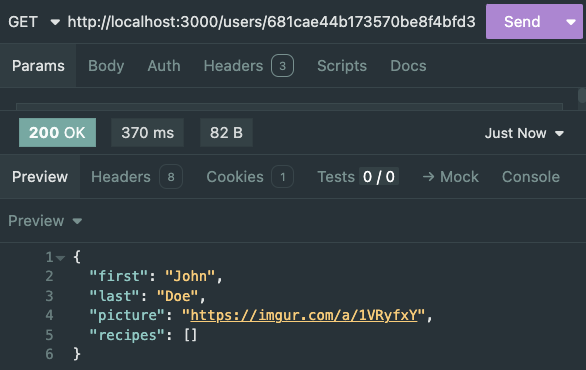
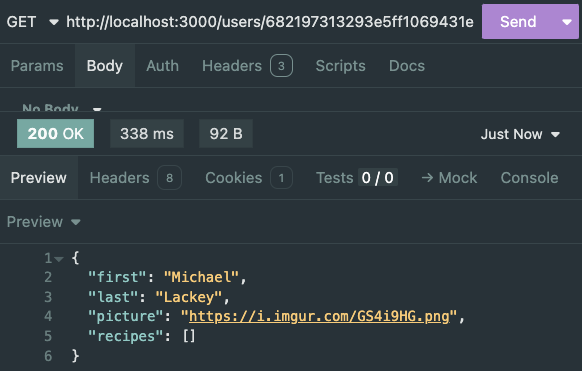
update controller text/images

diff --git a/README.md b/README.md
@@ -358,7 +358,7 @@ Click the copy button to add the connection string to your clipboard. You do not
 ---
 
 
-### Setting Up the **.env** File
+### Setting Up the .env File
 
 We will take this string and paste it into our `.env` file under the variable name `MONGODB_URI`. Like this:
 
@@ -1046,13 +1046,12 @@ Now, we test with Insomnia or Postman - a `POST` request to `'http://localhost:3
 
 ```json
 {
-  "first": "John",
-  "last": "Doe",
-  "email": "john.doe@email.com",
-  "password": "john1234",
-  "confirmPassword": "john1234",
-  "picture": "https://imgur.com/a/1VRyfxY"
-
+  "first": "Michael",
+  "last": "Lackey",
+  "email": "michael@email.com",
+  "password": "1234",
+  "confirmPassword": "1234",
+  "picture": "https://i.imgur.com/GS4i9HG.png"
 }
 ```
 
@@ -1241,8 +1240,8 @@ Now, we test with Insomnia or Postman - a `POST` request to `'http://localhost:3
 
 ```json
 {
-  "email": "john.doe@email.com",
-  "password": "john1234"
+  "email": "michael@email.com",
+  "password": "1234"
 }
 ```
 
@@ -1821,9 +1820,9 @@ Now, we test with Insomnia or Postman - a `PUT` request to `'http://localhost:30
 
 ```json
 {
-  "oldPassword": "john1234",
-  "newPassword": "1234john",
-  "confirmPassword": "1234john"
+  "oldPassword": "1234",
+  "newPassword": "4321",
+  "confirmPassword": "4321"
 }
 ```
 
@@ -2065,8 +2064,8 @@ Now, we test with Insomnia or Postman - a `POST` request to `'http://localhost:3
 {
   "title": "Chicken Parmigiana",
   "description": "Chicken Parmigiana is a beloved Italian-American dish made from breaded chicken cutlets topped with marinara sauce and melted mozzarella and Parmesan cheese. It's typically served over a bed of spaghetti or with a side of garlic bread, delivering a savory, crispy, and comforting bite every time.",
-  "image": "https://imgur.com/a/LS4Ta2q",
-  "author": "681cae44b173570be8f4bfd3"
+  "image": "https://i.imgur.com/LPzYS9q.png",
+  "author": "682197313293e5ff1069431e"
 }
 ```
 
@@ -2510,13 +2509,13 @@ Now, we test with Insomnia or Postman - a `PUT` request to `'http://localhost:30
 
 ```json
 {
-  "title": "Mom's Famous Chicken Parmigiana"
+  "title": "Patch's Famous Chicken Parmigiana"
 }
 ```
 
 ![Update Recipe Response](./images/update-recipe-response.png)
 
-What's for dinner? Mom's Famous Pattern.
+What's for dinner? Patch's Famous Pattern.
 
 [📖 Back to Top](#-table-of-contents)
 
